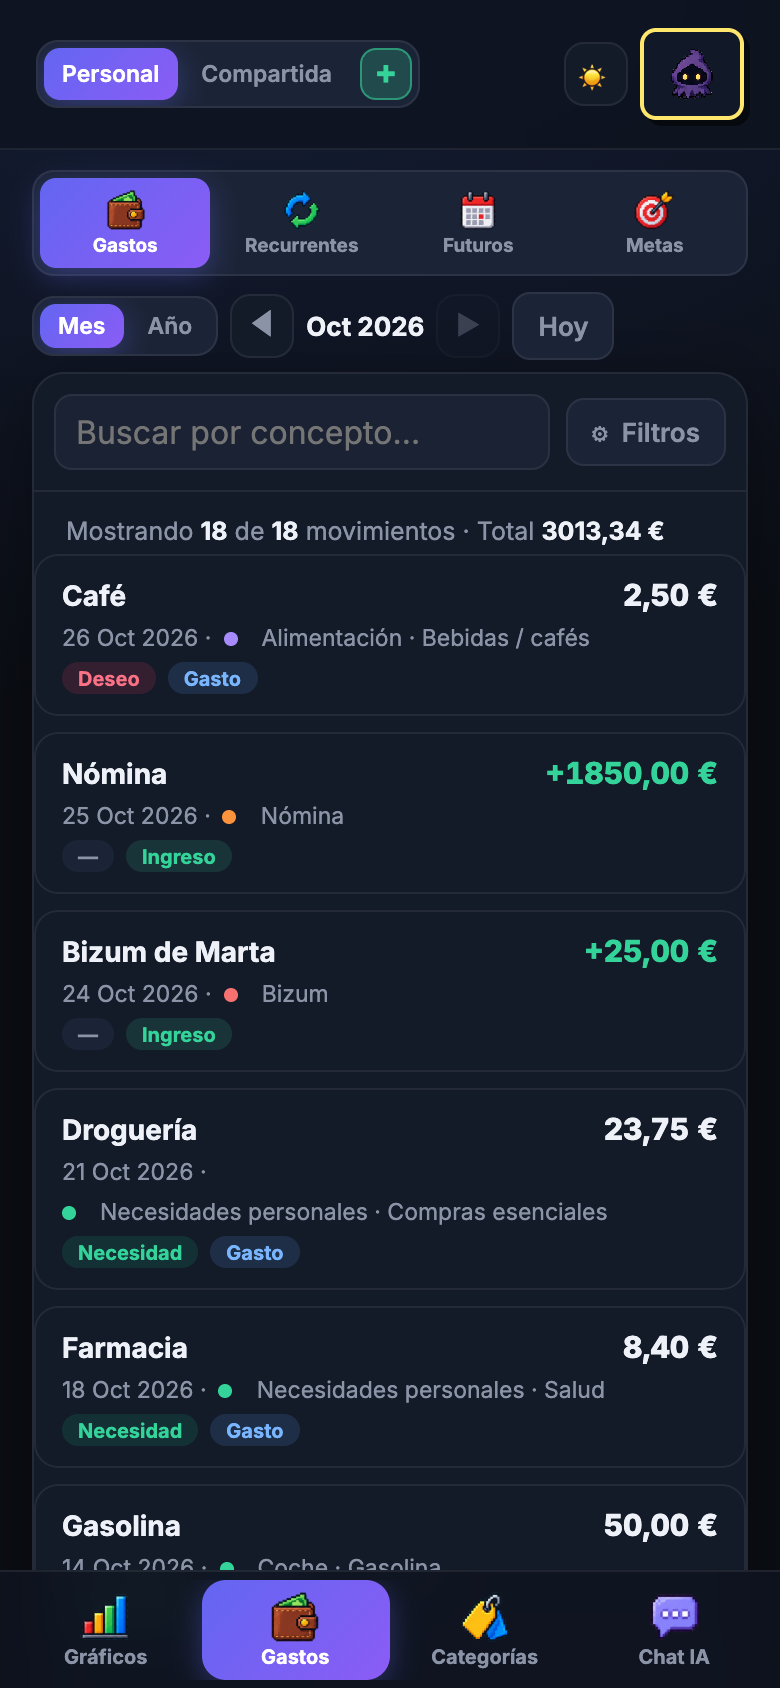
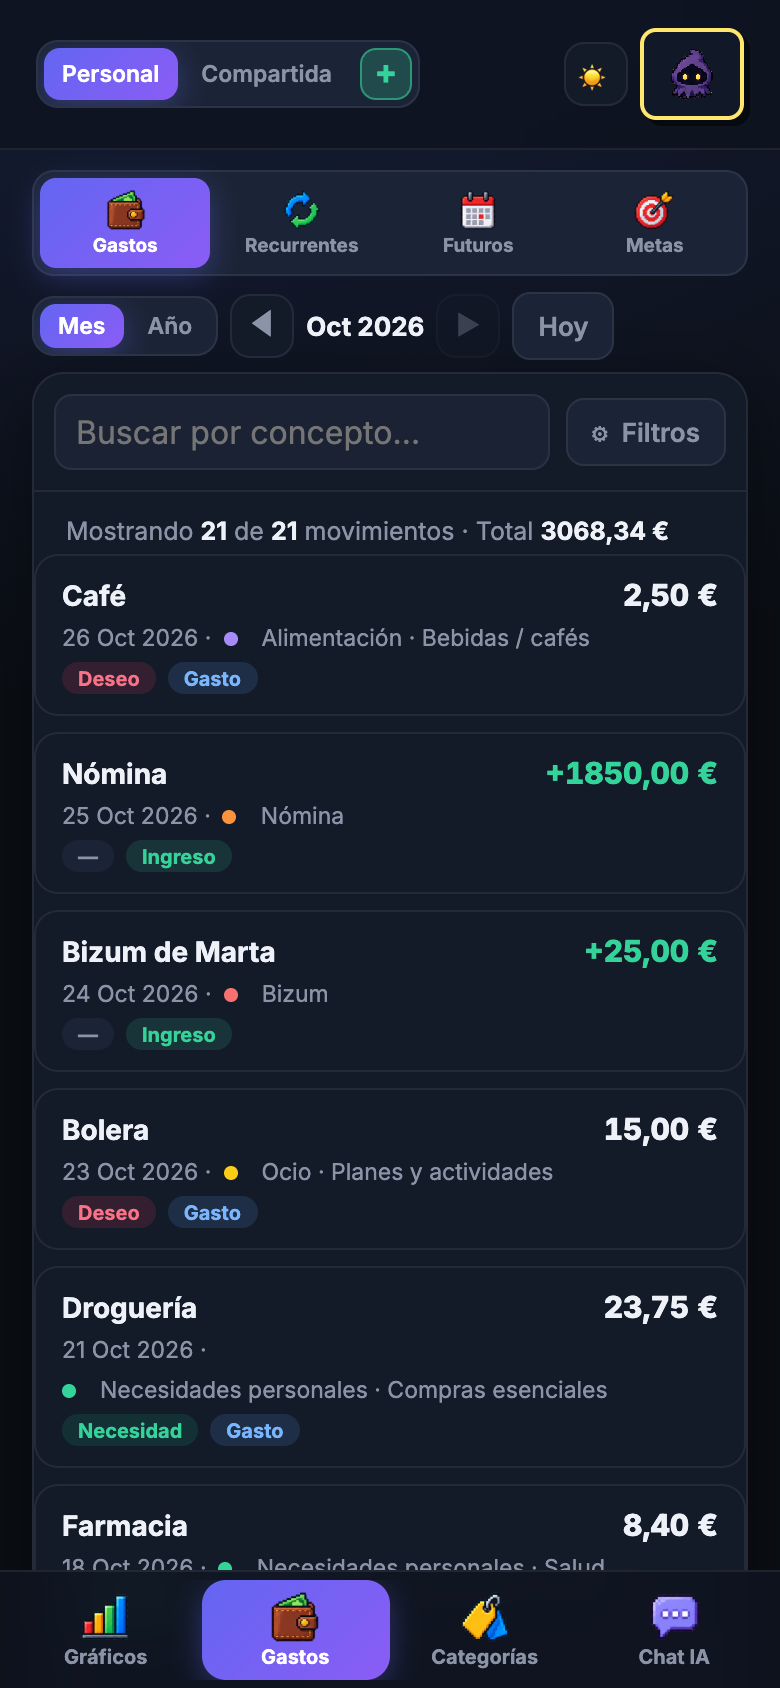
Landing: capturas en cuadrícula de 3 columnas y pie con Deporte/Transporte y Ocio como 2ª categoría

diff --git a/styles.css b/styles.css
@@ -62,7 +62,7 @@ a:hover { text-decoration: underline; }
 
 /* ── Hero ── */
 .hero { padding: 66px 0 40px; }
-.hero-in { display: grid; grid-template-columns: 1.1fr .9fr; gap: 44px; align-items: start; }
+.hero-in { display: grid; grid-template-columns: .95fr 1.15fr; gap: 40px; align-items: start; }
 .pill {
   display: inline-block; font-size: 12px; font-weight: 700; letter-spacing: .02em;
   color: #c7d2fe; background: rgba(99, 102, 241, .14);
@@ -75,13 +75,22 @@ h1 { font-size: clamp(30px, 5vw, 46px); line-height: 1.12; margin: 0 0 14px; let
 .tiny { font-size: 13px; color: var(--muted); margin: 0; }
 .tiny b { color: var(--text); }
 
-/* ── Capturas reales de la app (móvil), apiladas ── */
-.shots { display: flex; flex-direction: column; align-items: center; gap: 18px; }
-.shots img {
-  display: block; width: min(220px, 100%); height: auto;
-  border-radius: 22px; border: 1px solid var(--line);
-  background: #0a0f1e;
-  box-shadow: 0 26px 60px rgba(0, 0, 0, .55), inset 0 0 0 1px rgba(255, 255, 255, .03);
+/* ── Capturas reales de la app (móvil), en cuadrícula ── */
+.shots {
+  display: grid; grid-template-columns: repeat(3, 1fr); gap: 10px;
+  align-items: start; width: 100%; max-width: 560px; margin: 0 auto;
+}
+.shot {
+  display: block; border-radius: 15px; overflow: hidden;
+  border: 1px solid var(--line); background: #0a0f1e;
+  box-shadow: 0 16px 36px rgba(0, 0, 0, .45), inset 0 0 0 1px rgba(255, 255, 255, .03);
+  transition: transform .15s ease, box-shadow .15s ease;
+}
+.shot:hover { transform: translateY(-2px); box-shadow: 0 22px 44px rgba(0, 0, 0, .55); }
+.shot img { display: block; width: 100%; height: auto; }
+.shots-note {
+  grid-column: 1 / -1; margin: 2px 0 0; text-align: center;
+  font-size: 11.5px; color: var(--muted);
 }
 
 /* ── Secciones ── */
@@ -179,8 +188,8 @@ footer { border-top: 1px solid var(--line); margin-top: 30px; padding: 26px 0 40
 
 @media (max-width: 860px) {
   .hero-in { grid-template-columns: 1fr; gap: 26px; }
-  .shots { order: 2; }
-  .hero-in { gap: 34px; }
+  .shots { order: 2; max-width: 520px; }
+  .hero-in { gap: 30px; }
   .grid { grid-template-columns: repeat(2, 1fr); }
   .steps { grid-template-columns: 1fr; }
   .price-wrap { grid-template-columns: 1fr; }
@@ -193,5 +202,5 @@ footer { border-top: 1px solid var(--line); margin-top: 30px; padding: 26px 0 40
   .nav-in { padding: 9px 0; gap: 12px; }
   .brand { font-size: 19px; gap: 9px; }
   .brand img { width: 42px; height: 42px; border-radius: 11px; }
-  .shots img { width: min(240px, 76vw); }
+  .shots { max-width: 100%; gap: 8px; }
 }

diff --git a/index.html b/index.html
@@ -44,9 +44,16 @@
       </div>
 
       <div class="shots" aria-label="Capturas de la app en el móvil">
-          <img src="screens/charts.png" alt="Gráficos de Budget Master: KPIs del mes y desglose por categorías" width="390" height="1500" decoding="async">
-          <img src="screens/gastos.png" alt="Lista de gastos con las pestañas Gastos, Recurrentes, Futuros y Metas" width="390" height="844" loading="lazy" decoding="async">
-          <img src="screens/chat.png" alt="Chat de Budget Master con ejemplos de gastos e ingresos" width="390" height="844" loading="lazy" decoding="async">
+          <a class="shot" href="screens/charts.png" target="_blank" rel="noopener" title="Gráficos: KPIs y reparto por categorías">
+            <img src="screens/charts.png" alt="Gráficos de Budget Master: KPIs del mes y reparto por categorías" width="390" height="880" decoding="async">
+          </a>
+          <a class="shot" href="screens/gastos.png" target="_blank" rel="noopener" title="Gastos: lista y pestañas Recurrentes, Futuros y Metas">
+            <img src="screens/gastos.png" alt="Lista de gastos con las pestañas Gastos, Recurrentes, Futuros y Metas" width="390" height="844" decoding="async">
+          </a>
+          <a class="shot" href="screens/chat.png" target="_blank" rel="noopener" title="Chat IA: ejemplos de gastos e ingresos">
+            <img src="screens/chat.png" alt="Chat de Budget Master con ejemplos de gastos e ingresos" width="390" height="844" loading="lazy" decoding="async">
+          </a>
+          <p class="shots-note">Capturas reales de la app · toca para ampliar</p>
       </div>
     </div>
   </section>
